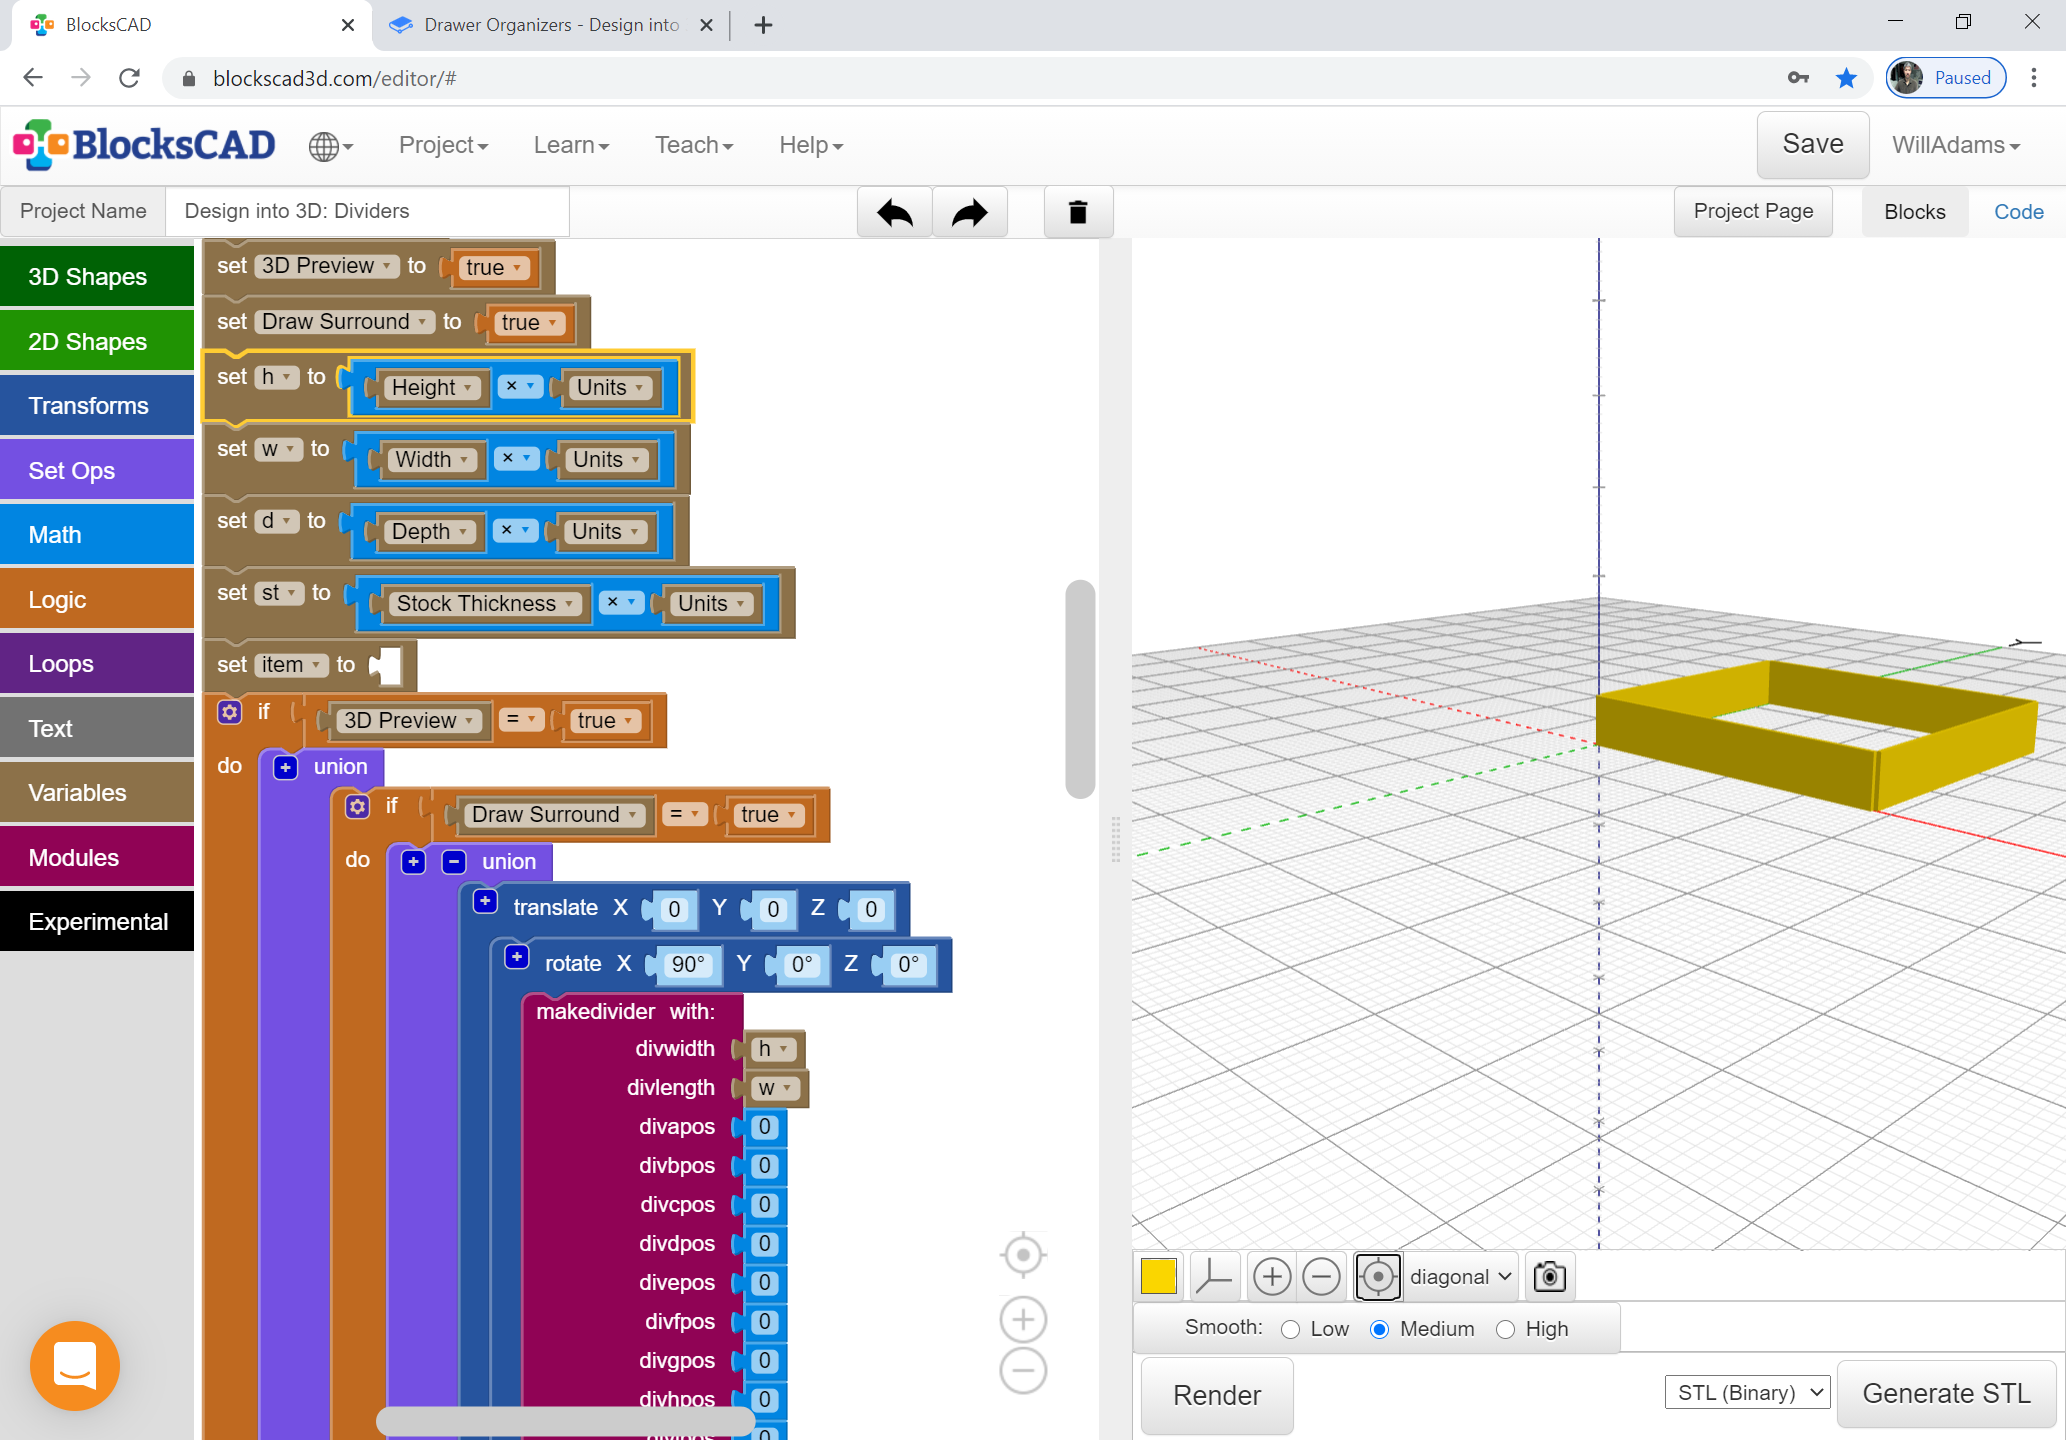
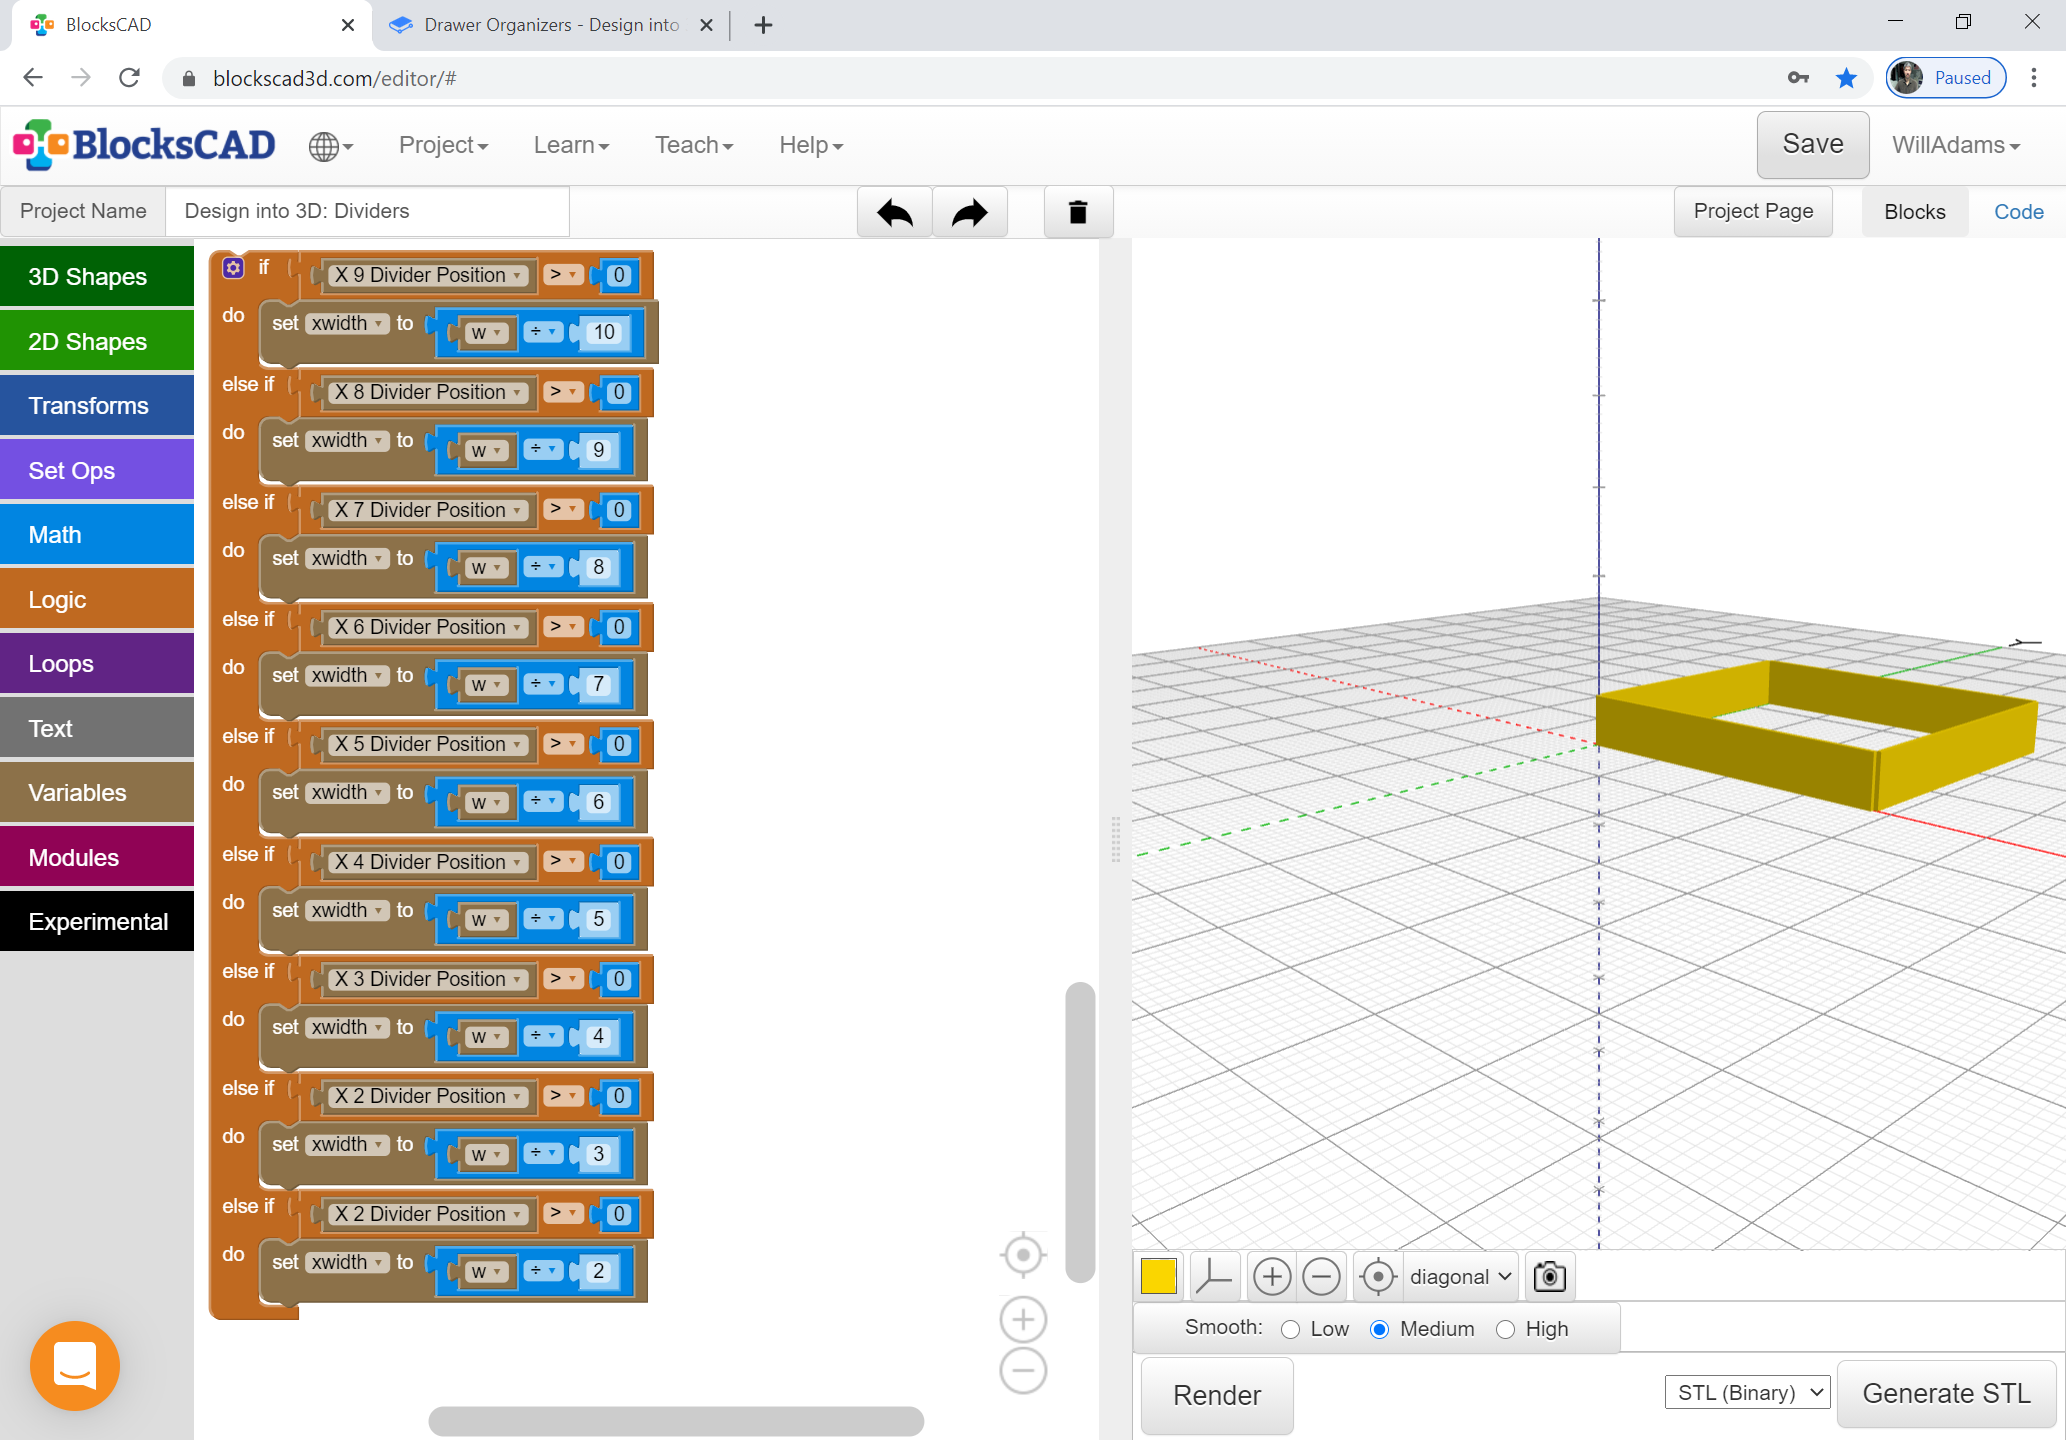
GitBook: [master] one page and 3 assets modified

diff --git a/drawer-organizers.md b/drawer-organizers.md
@@ -29,11 +29,15 @@ In order to do this we need a module which has an input for the maximum possible
 
 Then, based on the logic of which is the highest numbered position which has a non-zero number the distances are apportioned evenly and calculated. First create variables for each divider position:
 
-![Drawer divider variables](.gitbook/assets/image%20%2863%29.png)
+![Drawer divider variables](.gitbook/assets/image%20%2864%29.png)
 
 To make checking the position easier, draw in a surround:
 
-![Drawer divider surround](.gitbook/assets/image%20%2862%29.png)
+![Drawer divider surround](.gitbook/assets/image%20%2863%29.png)
+
+Calculate out the widths of the divided areas:
+
+![Drawer divider section width](.gitbook/assets/image%20%2862%29.png)
 
 
 
